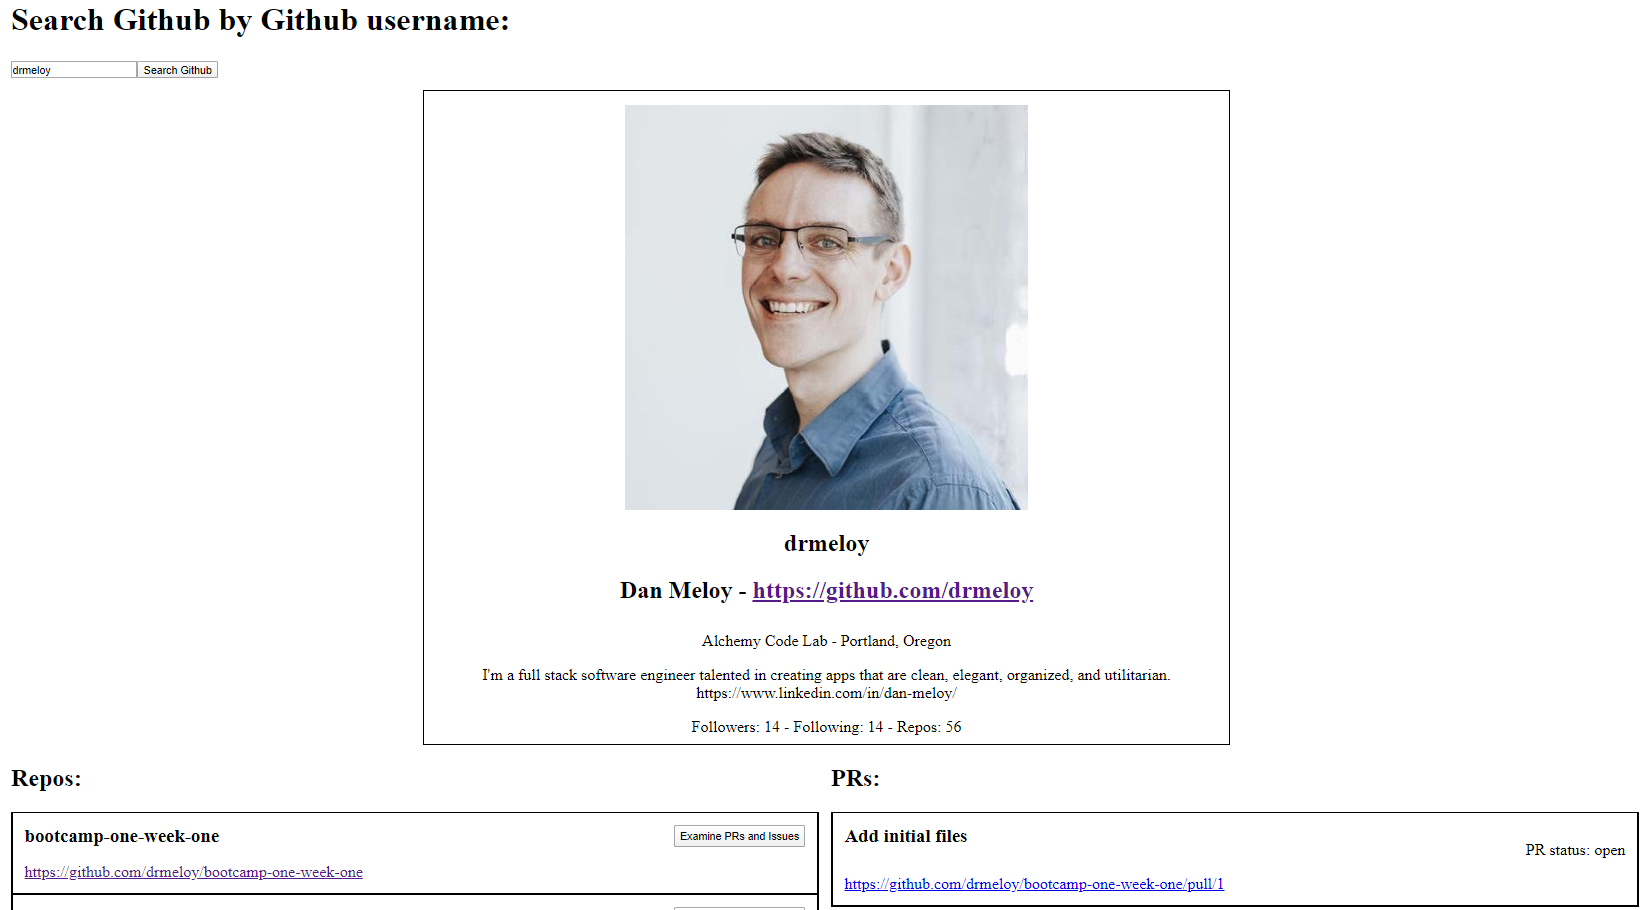
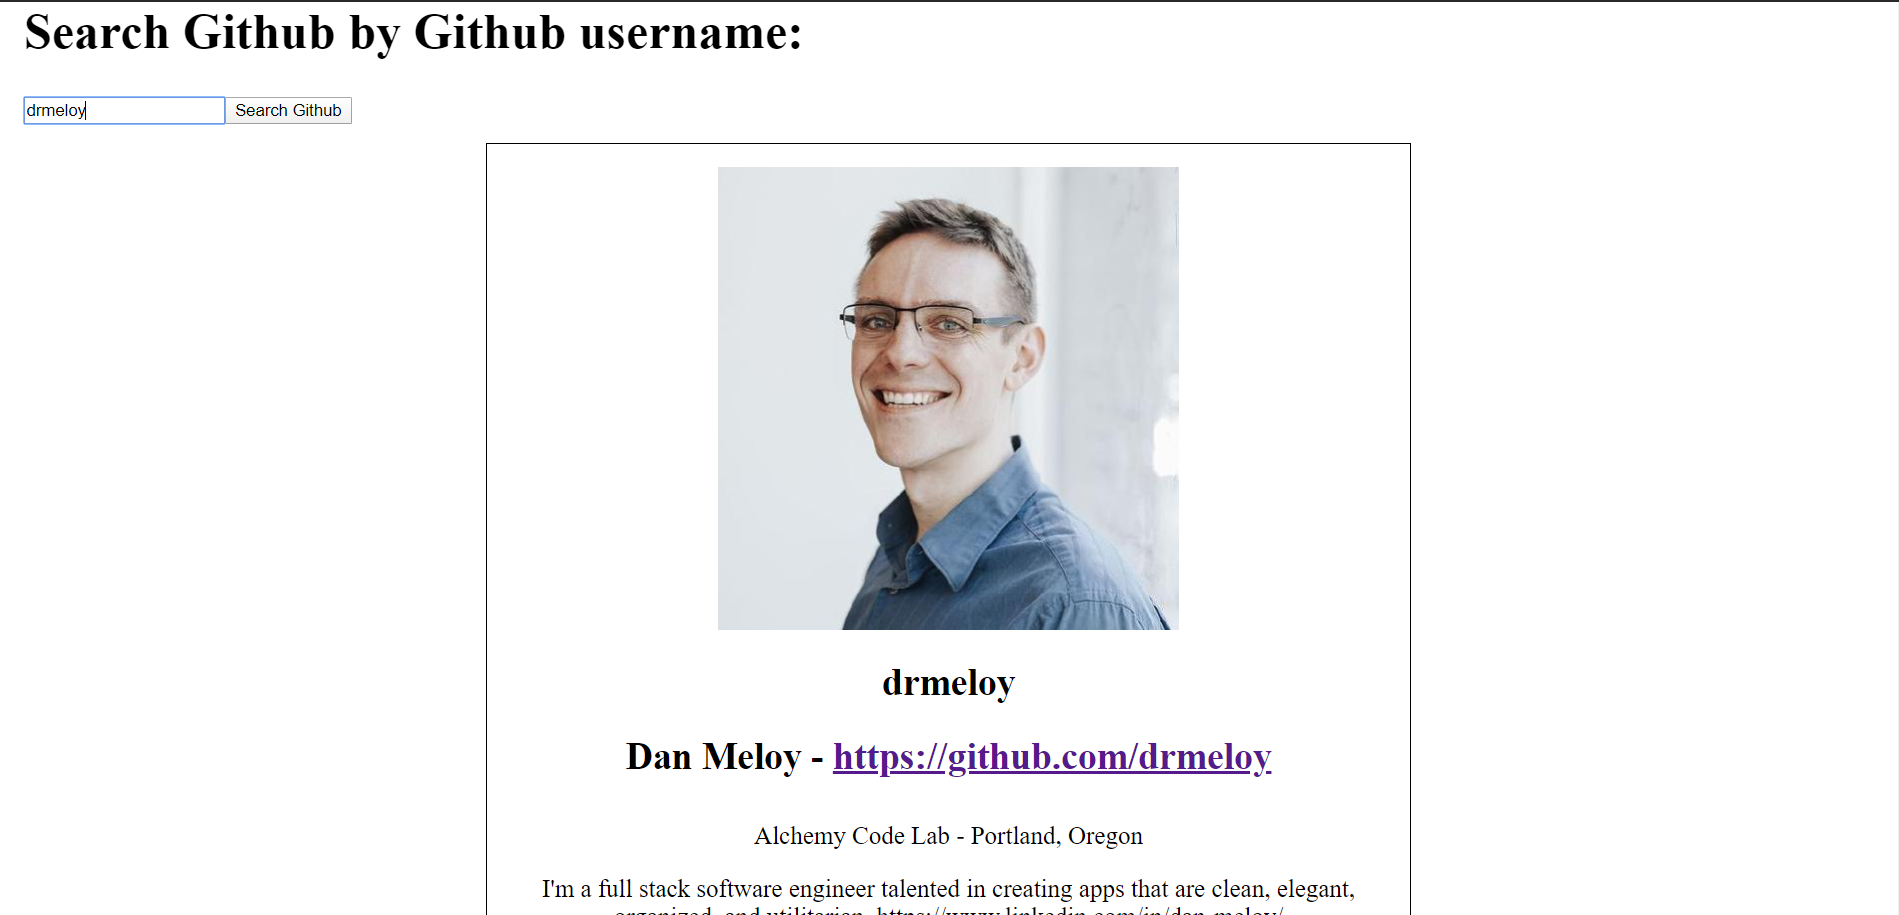
working on mobile styling

diff --git a/src/components/Work/Work2.css b/src/components/Work/Work2.css
@@ -92,6 +92,11 @@
   .Screenshot {
     max-width: 40%;
     height: auto;
+
+    @media (max-width: 1025px){
+      max-width: 75%;
+      margin: 5% auto;
+    }
   }
 
   .Icons {
@@ -176,15 +181,11 @@
     }
 
     h1 {
-      font-size: 1rem;
+      font-size: 1em;
     }
 
     p {
-      font-size: .8rem;
-    }
-
-    p > img, a > img, span > img {
-      max-width: 32px;
+      font-size: .7em;
     }
   }
 
@@ -198,10 +199,6 @@
     flex-direction: column;
     align-items: center;
     padding: 0;
-
-    img {
-      width: 80%;
-    }
 
     div {
       width: 90%;
